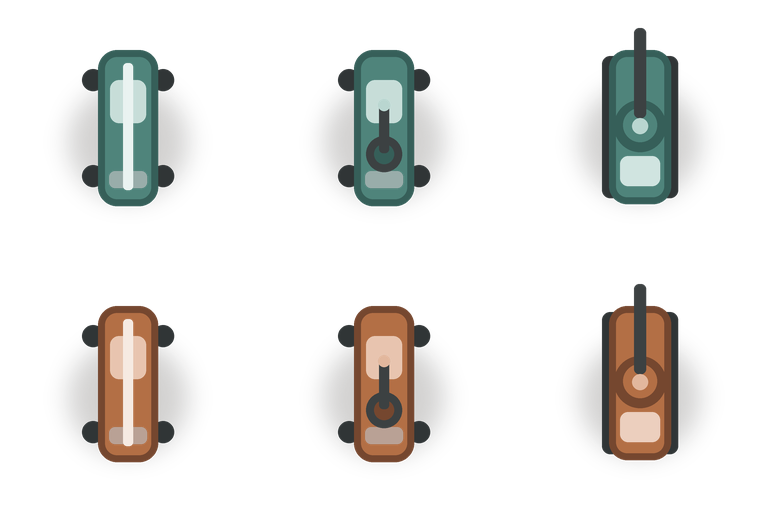
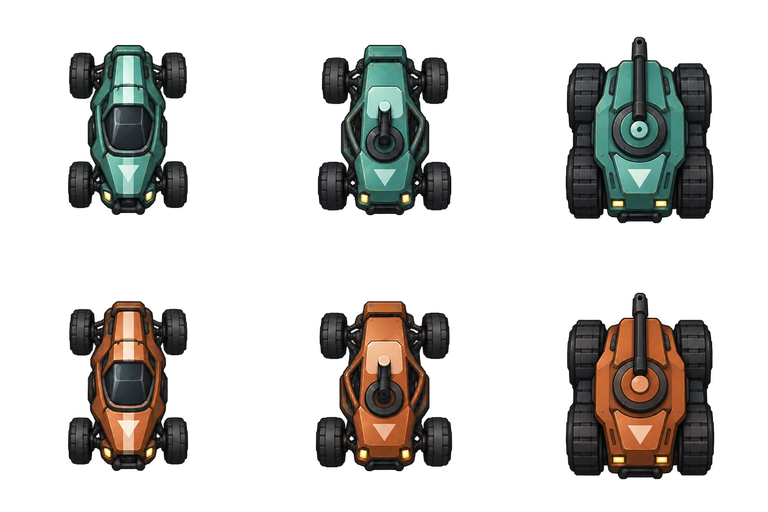
Add files via upload

diff --git a/tower-assets.js b/tower-assets.js
@@ -1,7 +1,7 @@
 window.TowerAttackAssets = Object.freeze({
-  version: "1.8.8-stage1",
+  version: "1.8.9-ai-vehicle-pass",
   vehicleAtlas: Object.freeze({
-    src: "tower-vehicles.png?v=1.8.8",
+    src: "tower-vehicles.png?v=1.8.9",
     width: 768,
     height: 512,
     cell: 256,
@@ -9,9 +9,9 @@ window.TowerAttackAssets = Object.freeze({
     rows: 2
   }),
   vehicles: Object.freeze({
-    scout: Object.freeze({ col: 0, worldWidth: 78, worldHeight: 78 }),
-    gunbuggy: Object.freeze({ col: 1, worldWidth: 78, worldHeight: 78 }),
-    tank: Object.freeze({ col: 2, worldWidth: 86, worldHeight: 90 })
+    scout: Object.freeze({ col: 0, worldWidth: 86, worldHeight: 86 }),
+    gunbuggy: Object.freeze({ col: 1, worldWidth: 86, worldHeight: 86 }),
+    tank: Object.freeze({ col: 2, worldWidth: 92, worldHeight: 96 })
   }),
   teamRows: Object.freeze({ player: 0, enemy: 1 })
 });

diff --git a/game-14.html b/game-14.html
@@ -7,7 +7,7 @@
   <meta name="apple-mobile-web-app-capable" content="yes">
   <meta name="apple-mobile-web-app-status-bar-style" content="default">
   <meta name="theme-color" content="#e7dbd2">
-  <link rel="stylesheet" href="style.css?v=1.8.8">
+  <link rel="stylesheet" href="style.css?v=1.8.9">
   <title>Tower Attack</title>
 </head>
 <body class="modular-game" data-game-id="game-14">
@@ -83,9 +83,9 @@
     </section>
   </main>
 
-  <script src="site-config.js?v=1.8.8"></script>
-  <script src="core.js?v=1.8.8"></script>
-  <script src="tower-assets.js?v=1.8.8"></script>
-  <script src="game-14.js?v=1.8.8"></script>
+  <script src="site-config.js?v=1.8.9"></script>
+  <script src="core.js?v=1.8.9"></script>
+  <script src="tower-assets.js?v=1.8.9"></script>
+  <script src="game-14.js?v=1.8.9"></script>
 </body>
 </html>

diff --git a/sw.js b/sw.js
@@ -1,4 +1,4 @@
-const CACHE = "gamehub-v1.8.8";
+const CACHE = "gamehub-v1.8.9";
 const APP_SHELL = [
   "./",
   "./index.html",
@@ -69,7 +69,7 @@ self.addEventListener("fetch", event => {
         return response;
       })
       .catch(async () => {
-        // HTML uses cache-busting query strings such as style.css?v=1.8.8,
+        // HTML uses cache-busting query strings such as style.css?v=1.8.9,
         // while APP_SHELL pre-caches the same files without the query string.
         // ignoreSearch lets those pre-cached assets satisfy offline requests.
         const cached = await caches.match(event.request, { ignoreSearch: true });

diff --git a/style.css b/style.css
@@ -9928,7 +9928,7 @@ body[data-game-id="game-14"] .attack-drag-ghost.defence::before{border-color:rgb
 
 
 /* ============================================================
-   GameHub v1.8.8 — Tower Attack Stage 1 vehicle atlas
+   GameHub v1.8.9 — Tower Attack Stage 1 vehicle atlas
    ============================================================ */
 body[data-game-id="game-14"] .tower-vehicle-atlas-icon{
   display:block;width:100%;height:100%;background-repeat:no-repeat;background-color:transparent;background-origin:border-box;

diff --git a/index.html b/index.html
@@ -46,7 +46,7 @@
     </div>
     <section class="game-grid" id="game-grid" aria-label="Games"></section>
   </main>
-  <script src="site-config.js?v=1.8.8"></script>
+  <script src="site-config.js?v=1.8.9"></script>
   <script src="core.js?v=1.8.4"></script>
   <script src="home.js?v=1.8.4"></script>
 </body>

diff --git a/site-config.js b/site-config.js
@@ -170,7 +170,7 @@ window.APP_CONFIG = {
       "description": "Attack and defend in real time: deploy units, place weapons and break the enemy base.",
       "icon": "⇧",
       "enabled": true,
-      "path": "game-14.html?v=1.8.8"
+      "path": "game-14.html?v=1.8.9"
     }
   ]
 };

diff --git a/README.md b/README.md
@@ -1,13 +1,13 @@
-# GameHub v1.8.8
+# GameHub v1.8.9
 
-Tower Attack art-pipeline Stage 1.
+Tower Attack AI vehicle-art integration test.
 
-- Adds `tower-vehicles.png`: the first replaceable runtime sprite atlas.
-- Scout, Gun Buggy and Tank now use atlas sprites for both teams instead of being constructed directly on the battlefield canvas.
-- Attacker icons in Command, deployment buttons and drag previews also use the vehicle atlas.
-- Adds `tower-vehicles-guide.png`, a clean reference sheet intended for later art/style passes.
-- Adds `tower-assets.js` so sprite positions and gameplay scale live outside the combat code.
-- Keeps the previous procedural vehicle drawing only as a safety fallback if the atlas fails to load.
-- No Tower Attack gameplay, economy, route or AI balance changes in this release.
+- Replaces the Stage-1 procedural vehicle atlas artwork with the second generated transparent vehicle pass.
+- Keeps the same six-cell atlas contract: Player Scout / Gun Buggy / Tank, then Enemy Scout / Gun Buggy / Tank.
+- Generated sprites are automatically cropped, centred and normalised into the existing 256px atlas cells.
+- Slightly increases visual sprite scale so the extra painted detail remains readable on the battlefield.
+- Keeps all Tower Attack gameplay, routes, economy, AI, combat and deployment logic unchanged.
+- Keeps the procedural vehicle renderer as a load-failure fallback.
+- The game uses a cleaned/normalised `tower-vehicles.png` derived from the generated transparent sheet.
 
-This is deliberately the first small step of the asset conversion; defence, scenery and terrain remain procedural for now.
+v1.8.7 remains the stable pre-atlas fallback; v1.8.8 is the procedural-atlas baseline.
